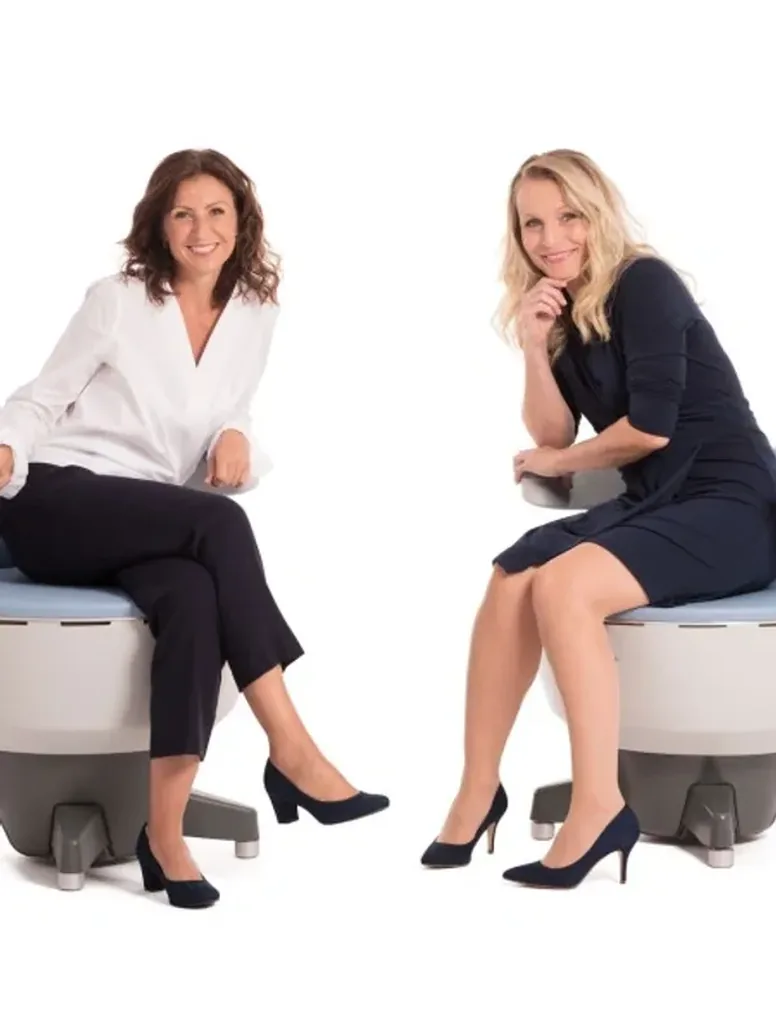
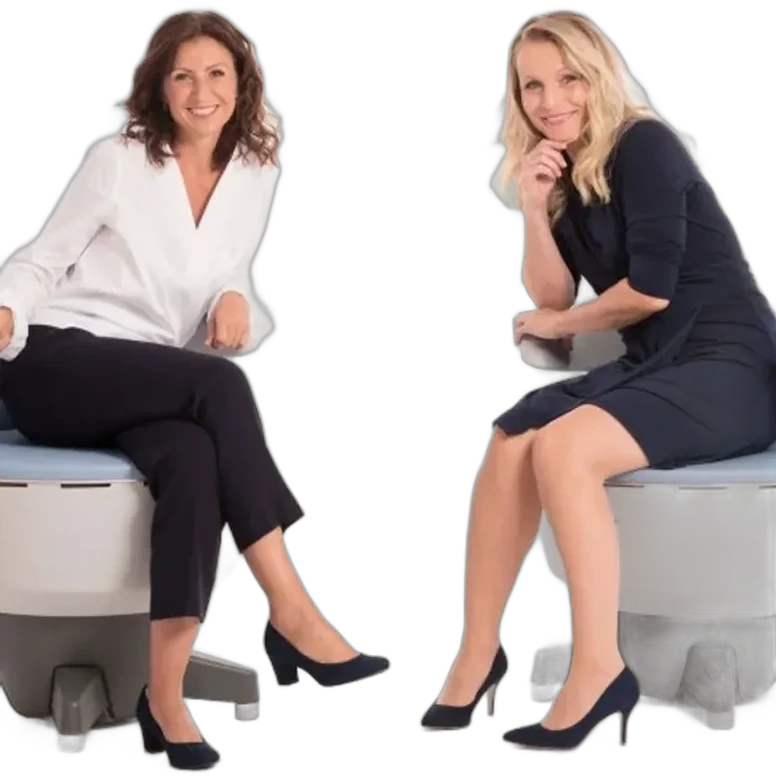
fix(emsella): remove trademark symbols, 28-min, knock-out What-is image
- Remove all ™ from rendered copy (SEO title/description, hero, headings,
  section titles) — trademark glyphs were polluting titles/SEO.
- What-is body: 'single 30-minute session' -> '28-minute' (matches the
  benefit list + FAQ; this is the text shown under the image on mobile).
- What-is image: background knocked out (transparent PNG on cream) and
  re-cropped to remove the white top/bottom margins (1034 -> 780px tall),
  so it no longer dominates the section. Now displayed object-contain on
  all widths (whatIsImageContain) — the women's heads are no longer cut
  off on mobile (was a fixed-height object-cover crop). CLS dims updated.
No shared components touched; other pages byte-identical.

diff --git a/src/data/imageDimensions.ts b/src/data/imageDimensions.ts
@@ -82,7 +82,7 @@ export const IMG_DIMS: Record<string, { w: number; h: number }> = {
   "/assets/images/services/emsella/incontinence-urge.webp": { w: 520, h: 520 },
   "/assets/images/services/emsella/sexual-wellness-man.webp": { w: 840, h: 560 },
   "/assets/images/services/emsella/sexual-wellness-woman.webp": { w: 840, h: 560 },
-  "/assets/images/services/emsella/what-is.webp": { w: 776, h: 1034 },
+  "/assets/images/services/emsella/what-is.webp": { w: 776, h: 780 },
   "/assets/images/services/exomind/device-showcase.webp": { w: 2000, h: 999 },
   "/assets/images/services/exomind/hero.webp": { w: 2400, h: 982 },
   "/assets/images/services/exomind/how-works.webp": { w: 1400, h: 1289 },

diff --git a/src/content/services/emsella.md b/src/content/services/emsella.md
@@ -1,8 +1,8 @@
 ---
-seoTitle: "EMSELLA™ in Aventura | Ideal Medical & Wellness"
-seoDescription: "EMSELLA™ in Aventura, FL — an FDA-cleared, non-invasive chair treatment using HIFEM energy to strengthen the pelvic floor and improve bladder control. Individual results vary."
+seoTitle: "EMSELLA in Aventura | Ideal Medical & Wellness"
+seoDescription: "EMSELLA in Aventura, FL — an FDA-cleared, non-invasive chair treatment using HIFEM energy to strengthen the pelvic floor and improve bladder control. Individual results vary."
 
-heroTitle: "EMSELLA™\nin Aventura"
+heroTitle: "EMSELLA\nin Aventura"
 heroLead: "Emsella is a non-invasive treatment that uses high-intensity focused electromagnetic (HIFEM) energy to strengthen the pelvic floor and improve bladder control — like doing thousands of Kegels while you sit, fully clothed. It's FDA-cleared for the treatment of urinary incontinence in women and men; individual results vary."
 heroImage: "/assets/images/services/emsella/hero.webp"
 heroImageAlt: "Two clients seated on Emsella treatment chairs"
@@ -23,19 +23,20 @@ overlapCtas: true
 # Геометрия Figma (узлы 1:5401 фото 776×1034 портрет @ x=147; заголовок 1:5091
 # одной строкой + gold-звезда 1:5065 справа; body 1:5035). Фото — скруглённая
 # карточка с отступом слева (как у текста), вверху секции; текст справа vw-адаптивный.
-whatIsTitle: "WHAT IS EMSELLA™?"
+whatIsTitle: "WHAT IS EMSELLA?"
 whatIsImage: "/assets/images/services/emsella/what-is.webp"
 whatIsImageAlt: "Clients seated on Emsella chairs"
 whatIsGridCols: "lg:grid-cols-[48fr_52fr]"
 whatIsAlign: "items-start"
 whatIsHeight: "lg:min-h-0"
 whatIsImageSide: "left"
-whatIsImageAspect: "lg:aspect-[776/1034]"
+whatIsImageAspect: "lg:aspect-[776/780]"
 whatIsImagePadded: true
+whatIsImageContain: true   # knockout PNG on cream — contain on all sizes (no head crop on mobile)
 whatIsHeadingClass: "text-[clamp(28px,3.23vw,62px)] leading-[1.05]"
 whatIsBodyClass: "text-[clamp(16px,1.09vw,21px)] leading-[1.5]"
 whatIsBody: |
-  Emsella is an FDA-cleared, non-invasive chair treatment that uses HIFEM energy to stimulate and strengthen the pelvic floor. The manufacturer compares a single 30-minute session to roughly 11,000 Kegels — with no effort on your part.
+  Emsella is an FDA-cleared, non-invasive chair treatment that uses HIFEM energy to stimulate and strengthen the pelvic floor. The manufacturer compares a single 28-minute session to roughly 11,000 Kegels — with no effort on your part.
 
   Emsella may be a good fit for:
 
@@ -49,7 +50,7 @@ twoColumnSections:
   - position: "after-whatis"
     background: "cream"
     left:
-      title: "WHAT TO EXPECT\nFROM YOUR\nEMSELLA™ SESSION"
+      title: "WHAT TO EXPECT\nFROM YOUR\nEMSELLA SESSION"
       bulletStyle: "plain"
       bullets:
         - "Non-invasive: You remain fully clothed"
@@ -58,12 +59,12 @@ twoColumnSections:
         - "No downtime: Resume your normal activities right away"
       tail: "Many people notice improvement after a few sessions, with continued progress over the following weeks. Individual results vary."
     right:
-      title: "BOOK YOUR\nEMSELLA™\nTREATMENT TODAY"
+      title: "BOOK YOUR\nEMSELLA\nTREATMENT TODAY"
       body: "Take a step toward better pelvic-floor health and confidence with Emsella in Aventura. Whether you're dealing with urinary incontinence or simply want to improve your quality of life, our team is here to help."
   # ---------- Two-column: Emsella for Sexual Wellness (after the incontinence grid) ----------
   - position: "after-categories-grid"
     background: "cream"
-    heading: "EMSELLA™ FOR INTIMATE WELLNESS"
+    heading: "EMSELLA FOR INTIMATE WELLNESS"
     headingClass: "text-[clamp(24px,1.88vw,36px)] leading-[1.1]"
     # Compliance: над колонками — оговорка (не FDA-cleared, не лечение ED).
     intro: "Beyond bladder control, some people choose Emsella to support intimate wellness by strengthening the pelvic floor. <strong>These uses are not FDA-cleared indications, the evidence is still emerging, and individual results vary. Emsella is not a treatment for erectile dysfunction, sexual dysfunction, or any medical condition.</strong>"
@@ -90,7 +91,7 @@ twoColumnSections:
 
 # ---------- What EMSELLA Is for? — incontinence types grid (gold, 3 items) ----------
 categoriesGrids:
-  - title: "WHAT EMSELLA™ IS FOR?"
+  - title: "WHAT EMSELLA IS FOR?"
     titleClass: "text-[clamp(24px,1.88vw,36px)] leading-tight text-left"
     background: "gold"
     imageAspectClass: "aspect-square"